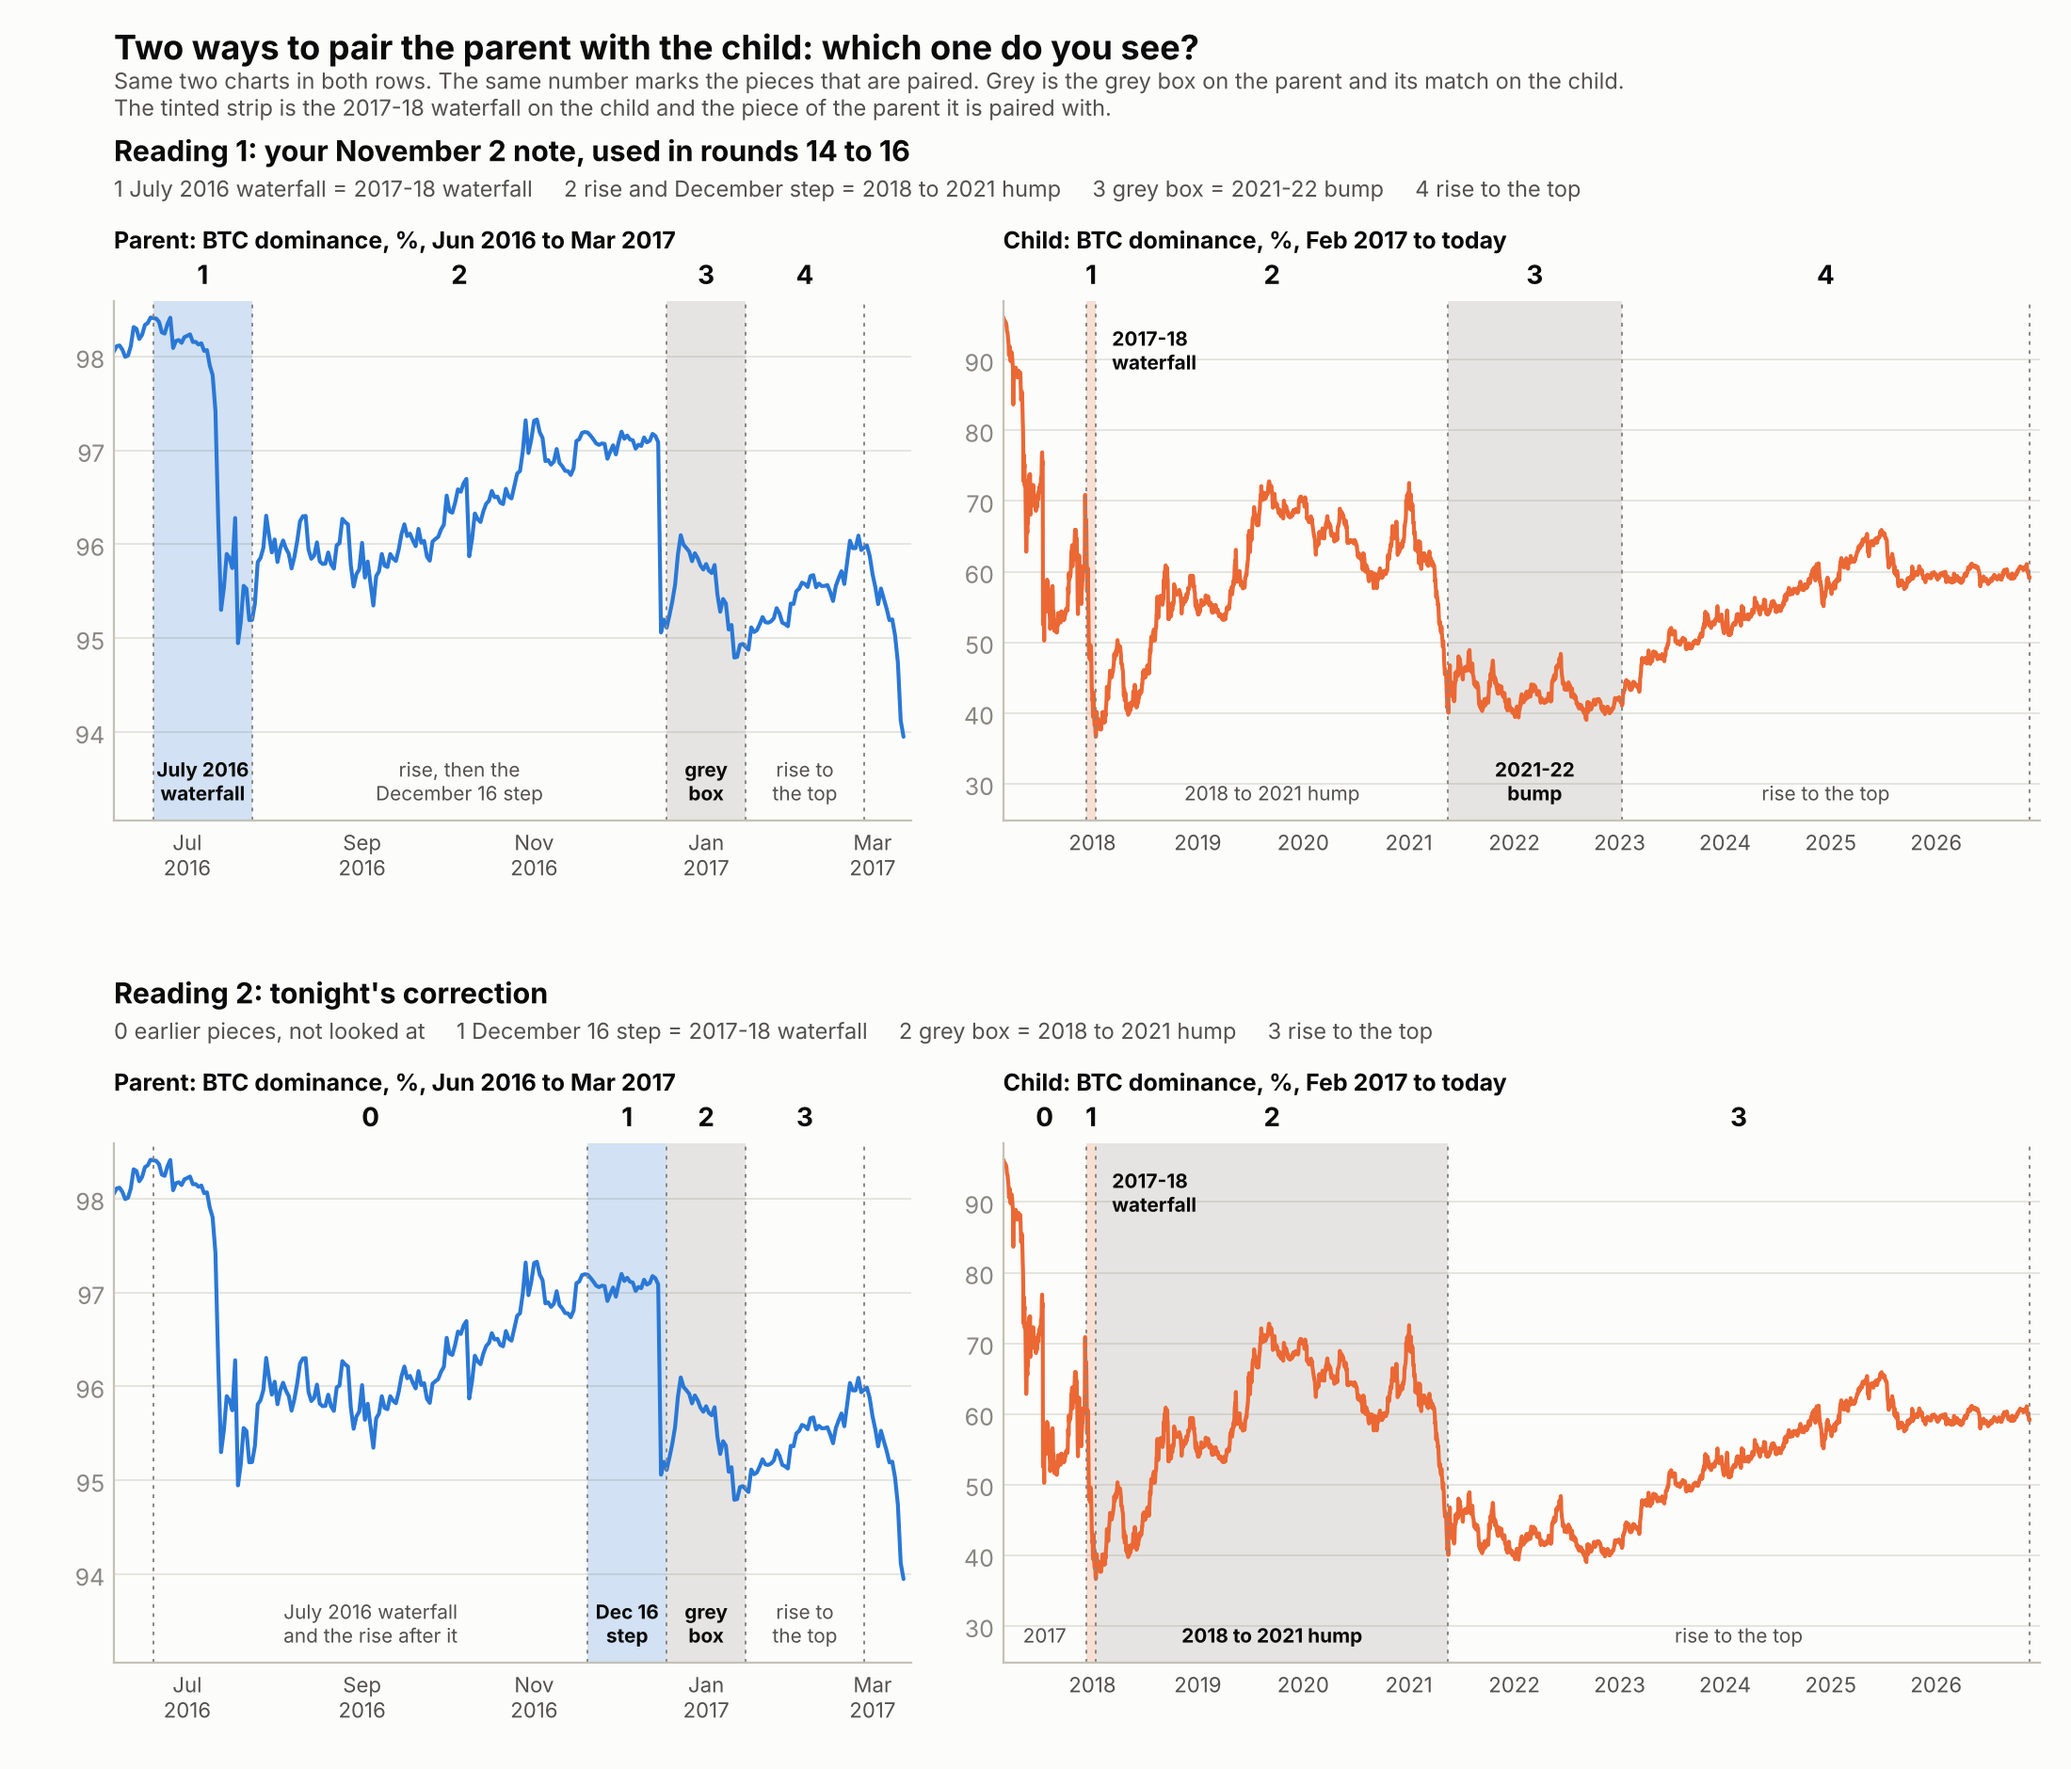
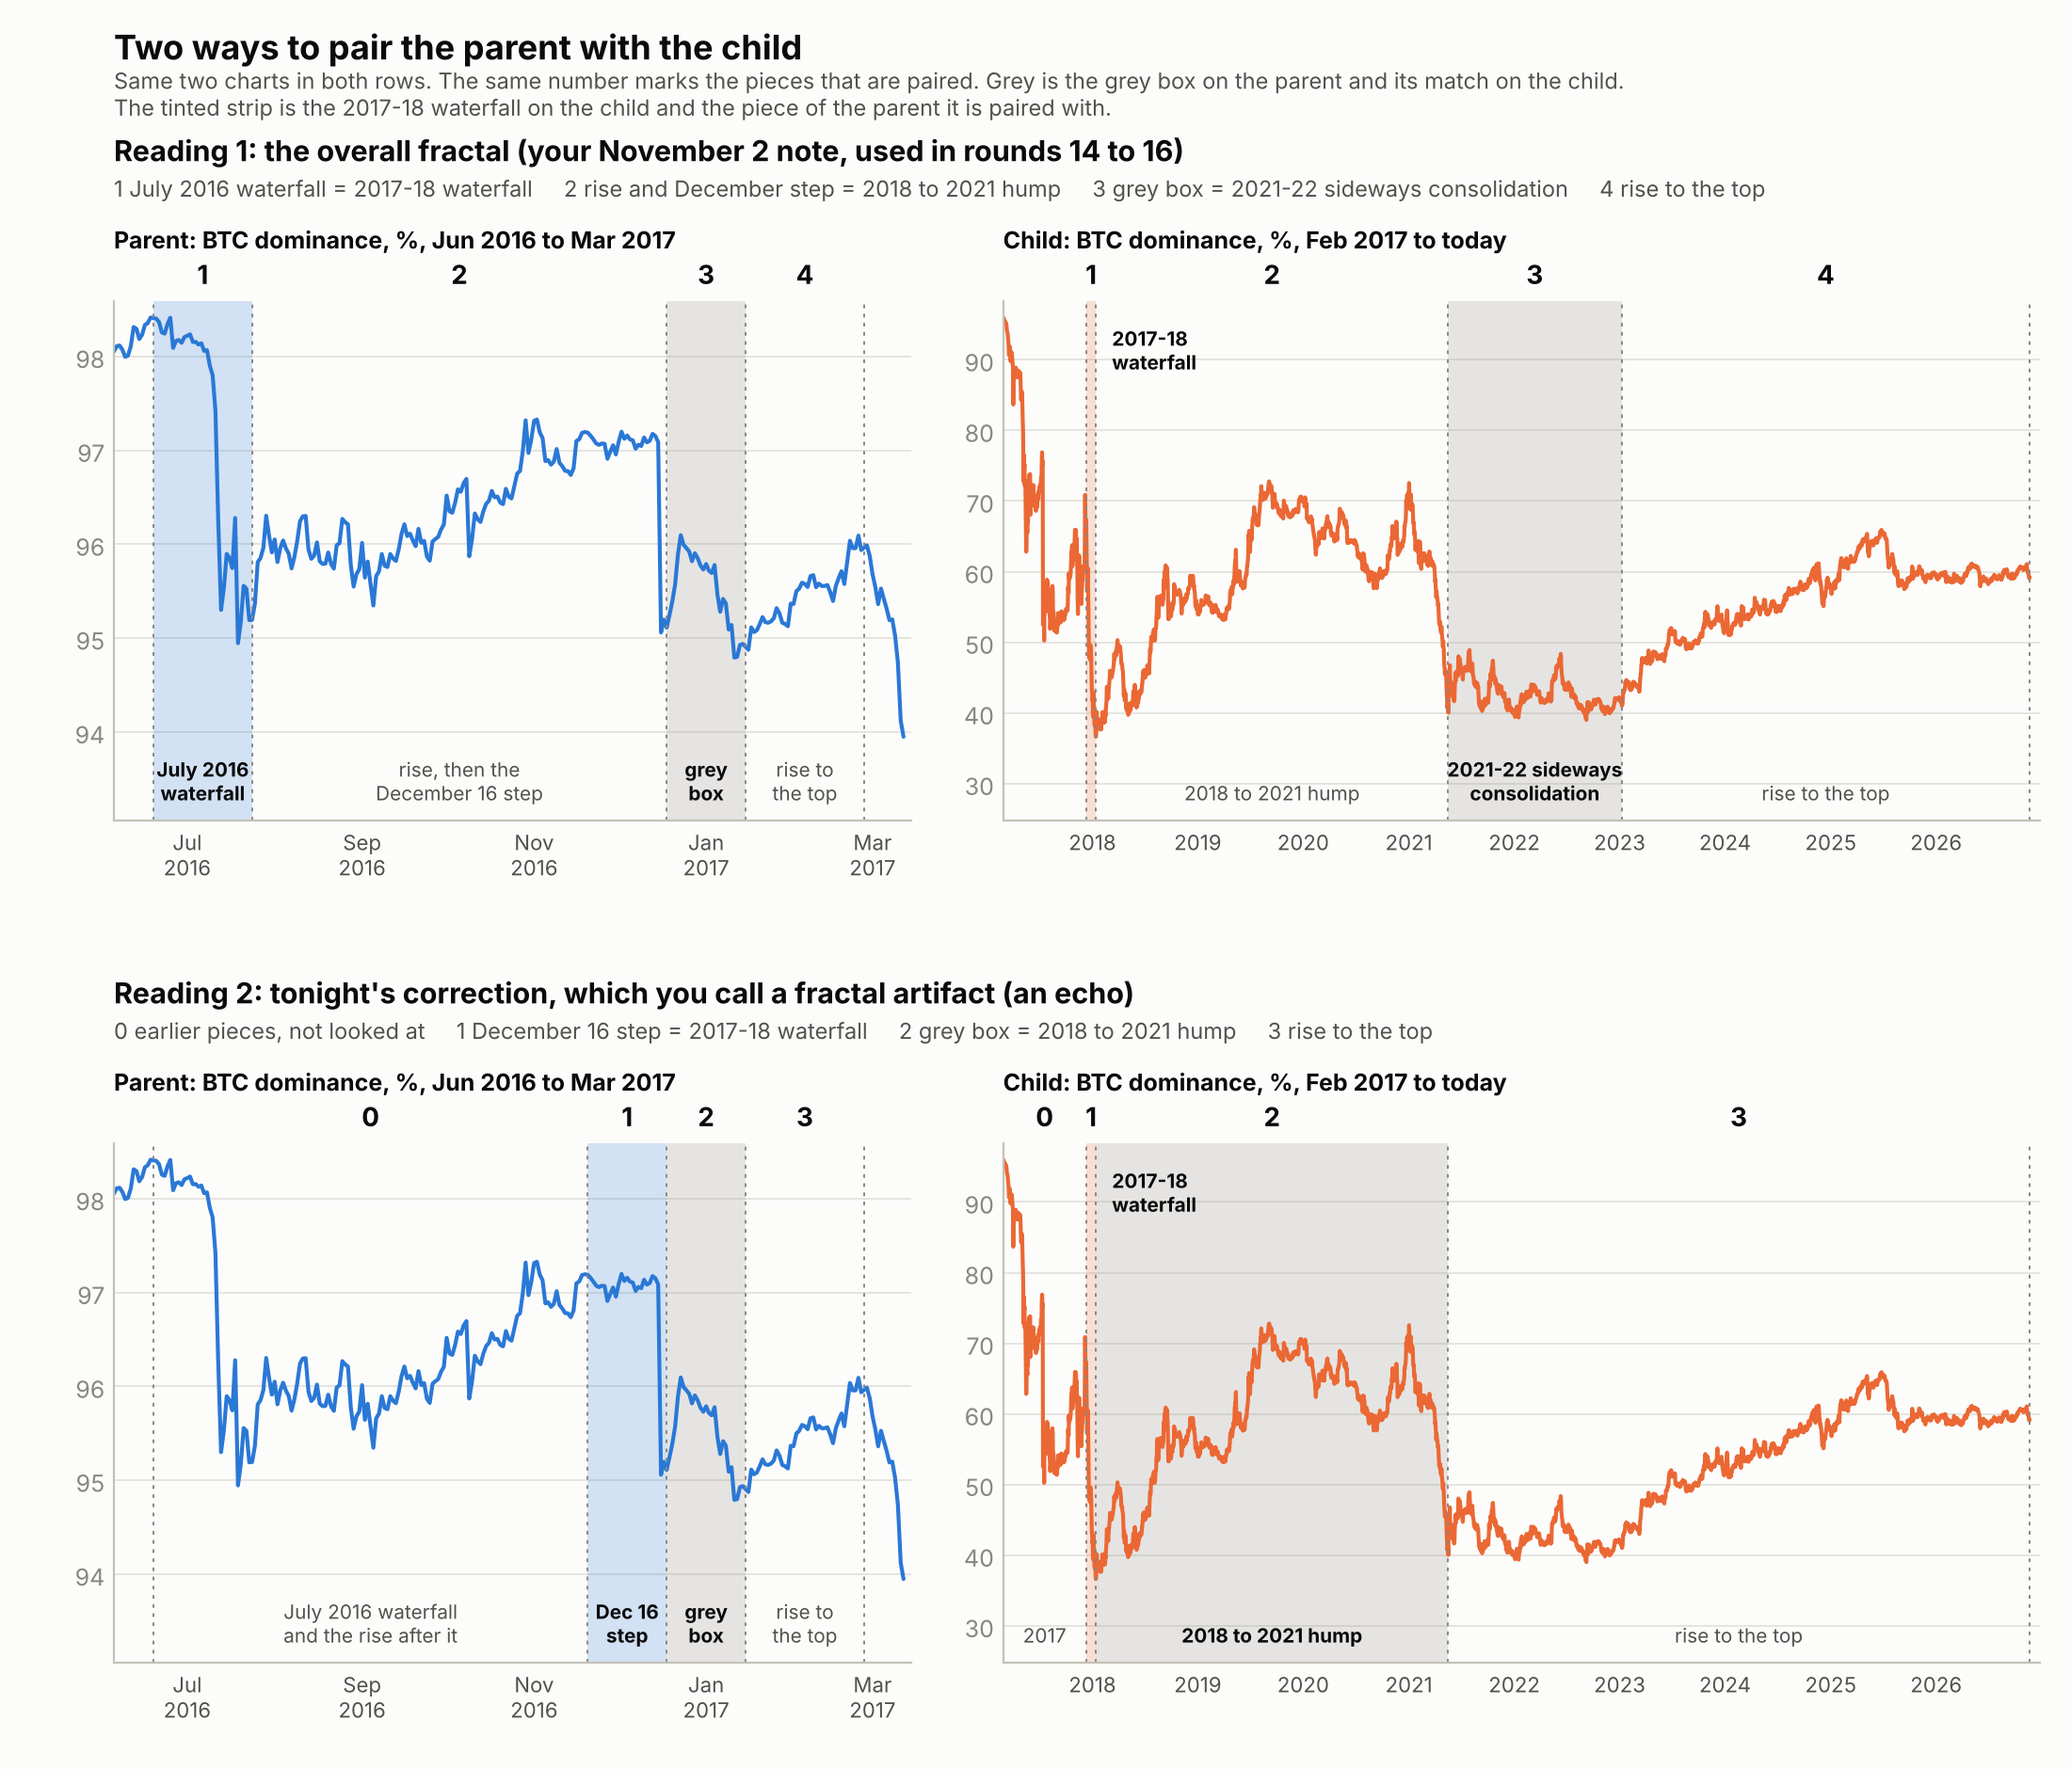
Round 16: record the settled reading and relabel the 2021-22 consolidation
Steven: reading 1 is the overall fractal; the corrected hump is an echo.
The 2021-22 stretch is a sideways consolidation.

Claude-Session: https://claude.ai/code/session_01252pBFjJ3q147HneYEfeUS

diff --git a/research/btcd_fractal/round16/charts.py b/research/btcd_fractal/round16/charts.py
@@ -199,7 +199,7 @@ def fig_two_readings():
     R1p = [("2016-06-19", "2016-07-24", "1", "fall", "July 2016\nwaterfall"), ("2016-07-24", "2016-12-18", "2", "", "rise, then the\nDecember 16 step"),
            ("2016-12-18", "2017-01-15", "3", "hump", "grey\nbox"), ("2017-01-15", "2017-02-26", "4", "", "rise to\nthe top")]
     R1c = [("2017-12-10", "2018-01-14", "1", "fall", "2017-18\nwaterfall"), ("2018-01-14", "2021-05-16", "2", "", "2018 to 2021 hump"),
-           ("2021-05-16", "2023-01-08", "3", "hump", "2021-22\nbump"), ("2023-01-08", str(TODAY.date()), "4", "", "rise to the top")]
+           ("2021-05-16", "2023-01-08", "3", "hump", "2021-22 sideways\nconsolidation"), ("2023-01-08", str(TODAY.date()), "4", "", "rise to the top")]
     R2p = [("2016-06-19", "2016-11-20", "0", "", "July 2016 waterfall\nand the rise after it"), ("2016-11-20", "2016-12-18", "1", "fall", "Dec 16\nstep"),
            ("2016-12-18", "2017-01-15", "2", "hump", "grey\nbox"), ("2017-01-15", "2017-02-26", "3", "", "rise to\nthe top")]
     R2c = [("2017-02-26", "2017-12-10", "0", "", "2017"), ("2017-12-10", "2018-01-14", "1", "fall", "2017-18\nwaterfall"),
@@ -229,11 +229,11 @@ def fig_two_readings():
                 ax.xaxis.set_major_locator(mdates.YearLocator()); ax.xaxis.set_major_formatter(mdates.DateFormatter("%Y"))
             ax.tick_params(axis="x", labelsize=8, colors=INK2)
             ax.set_title(("Parent: BTC dominance, %, Jun 2016 to Mar 2017" if k == 0 else "Child: BTC dominance, %, Feb 2017 to today"), loc="left", color=INK, fontsize=9, fontweight="bold", pad=20)
-    fig.suptitle("Two ways to pair the parent with the child: which one do you see?", x=0.055, y=0.985, ha="left", color=INK, fontsize=13, fontweight="bold")
+    fig.suptitle("Two ways to pair the parent with the child", x=0.055, y=0.985, ha="left", color=INK, fontsize=13, fontweight="bold")
     fig.text(0.055, 0.962, "Same two charts in both rows. The same number marks the pieces that are paired. Grey is the grey box on the parent and its match on the child.\n"
              "The tinted strip is the 2017-18 waterfall on the child and the piece of the parent it is paired with.", color=INK2, fontsize=8.5, va="top")
-    rows = (("Reading 1: your November 2 note, used in rounds 14 to 16", "1 July 2016 waterfall = 2017-18 waterfall     2 rise and December step = 2018 to 2021 hump     3 grey box = 2021-22 bump     4 rise to the top"),
-            ("Reading 2: tonight's correction", "0 earlier pieces, not looked at     1 December 16 step = 2017-18 waterfall     2 grey box = 2018 to 2021 hump     3 rise to the top"))
+    rows = (("Reading 1: the overall fractal (your November 2 note, used in rounds 14 to 16)", "1 July 2016 waterfall = 2017-18 waterfall     2 rise and December step = 2018 to 2021 hump     3 grey box = 2021-22 sideways consolidation     4 rise to the top"),
+            ("Reading 2: tonight's correction, which you call a fractal artifact (an echo)", "0 earlier pieces, not looked at     1 December 16 step = 2017-18 waterfall     2 grey box = 2018 to 2021 hump     3 rise to the top"))
     fig.subplots_adjust(left=0.055, right=0.985, top=0.83, bottom=0.06)
     for r, (h, sub) in enumerate(rows):
         y = axs[r, 0].get_position().y1

diff --git a/research/btcd_fractal/round16/README.md b/research/btcd_fractal/round16/README.md
@@ -129,3 +129,23 @@ part. He also rules out one more push up in BTC dominance (it would break the he
 - Open: this pairing puts the 2017-18 waterfall against the Dec 16 2016 index step. Carried back
   one structure (not Steven's wording) the July 2016 waterfall sits against Feb 26 to Aug 27 2017.
 - Everything from the 2021 fall low onward is as in the addendum above.
+
+## Settled: reading 1 is the fractal, the corrected hump is an echo (Nov 21, 2026, 10:50 PM EST / Nov 22, 03:50 UTC)
+
+Steven, after seeing both pairings side by side (`two_readings.png`, drawn by `charts.py`): "both
+things are true at once". The overall fractal is reading 1 (his November 2 note): July 2016
+waterfall = 2017-18 waterfall, rise and December 16 step = the 2018 to 2021 hump, grey box = the
+2021-22 sideways consolidation (not a "bump"), then the rise to the top. The corrected hump above
+is "a kind of fractal artifact": an echo, not a second set of anchors. Kept from tonight: the top
+is now (the zone since June 2025), no more push up, the dilation moves.
+
+- Echo on the parent itself: hump 95.19, 97.19, 95.11 over 21 weeks; grey box 95.11, 95.96, 94.91
+  over 4 weeks. Each gives back a little more than it gained (104% and 124% of the rise); the grey
+  box is 2.3 times smaller and 5 times shorter. Timing differs: 81% of the hump's time is the way
+  up, 25% of the grey box's.
+- Consolidation: parent weekly closes 94.91 to 95.96 for 4 weeks (about half the size of the fall
+  before it, logs); child 39.36 to 48.03 from May 2021 to the end of 2022 (about a third).
+- Pace on reading 1: 1.0, 5.1, 22.0, 19.5 to 21.5 for the consolidation, then 34 to 35 for the
+  last rise to today (21 to 23 to the June 22 2025 high).
+- Put back: the BTC crash inside the grey box (Jan 4 to 11 2017, -30.2%) pairs with the 2022 bear
+  inside the consolidation (Nov 8 2021 to Nov 21 2022, -76.7%), not with spring 2021.
